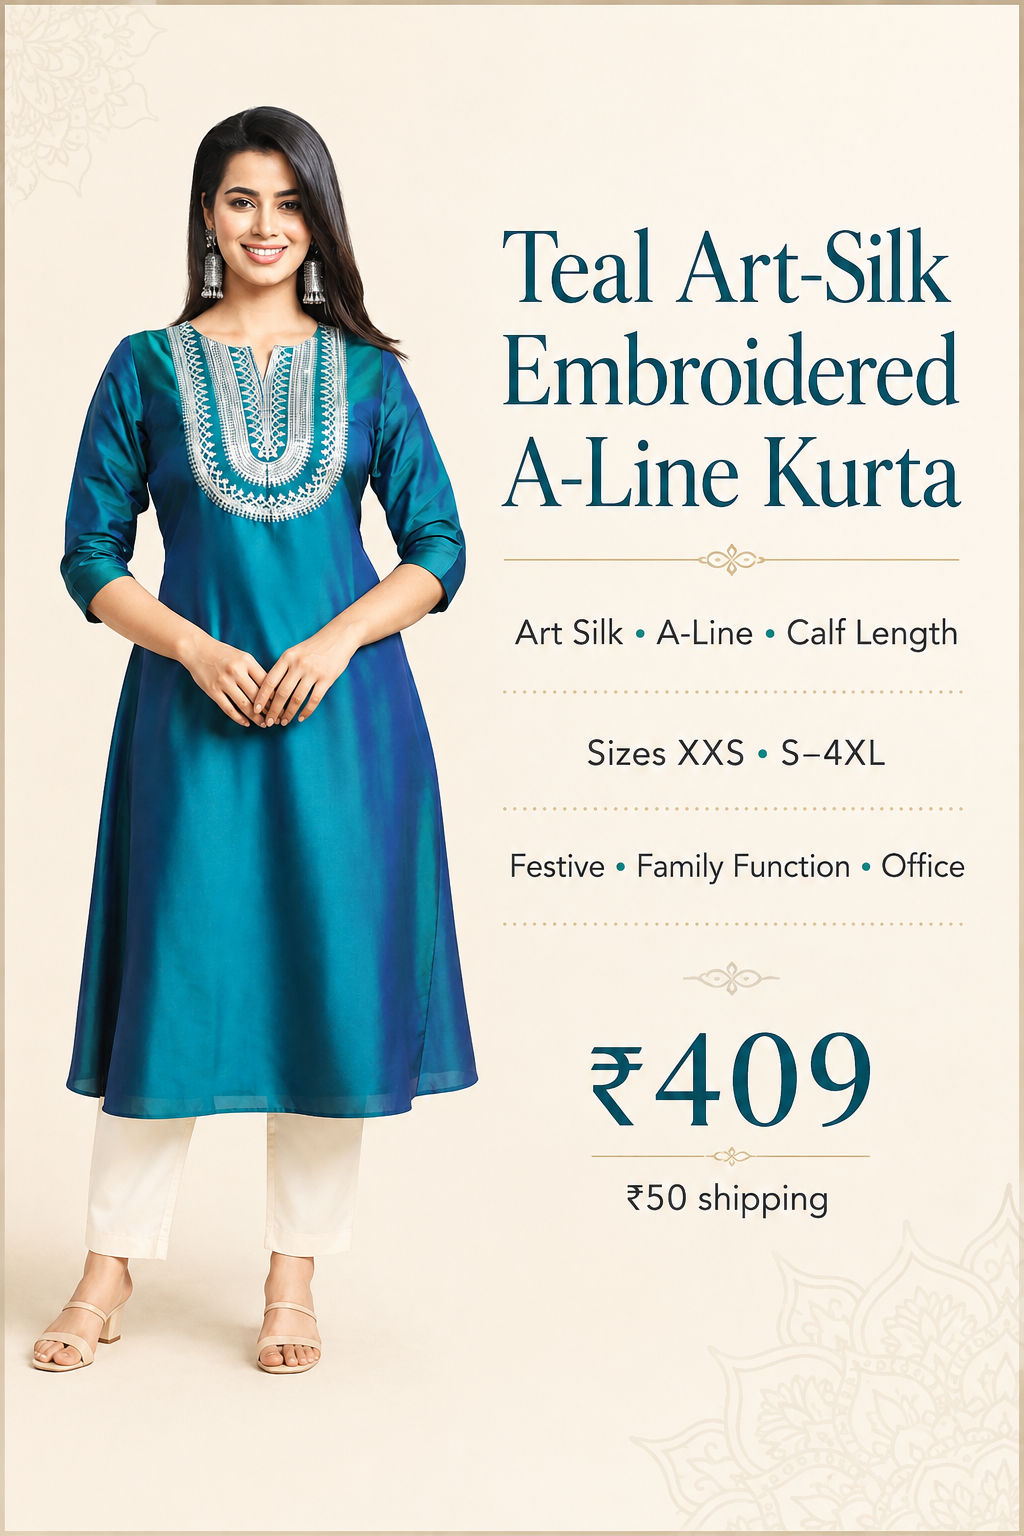
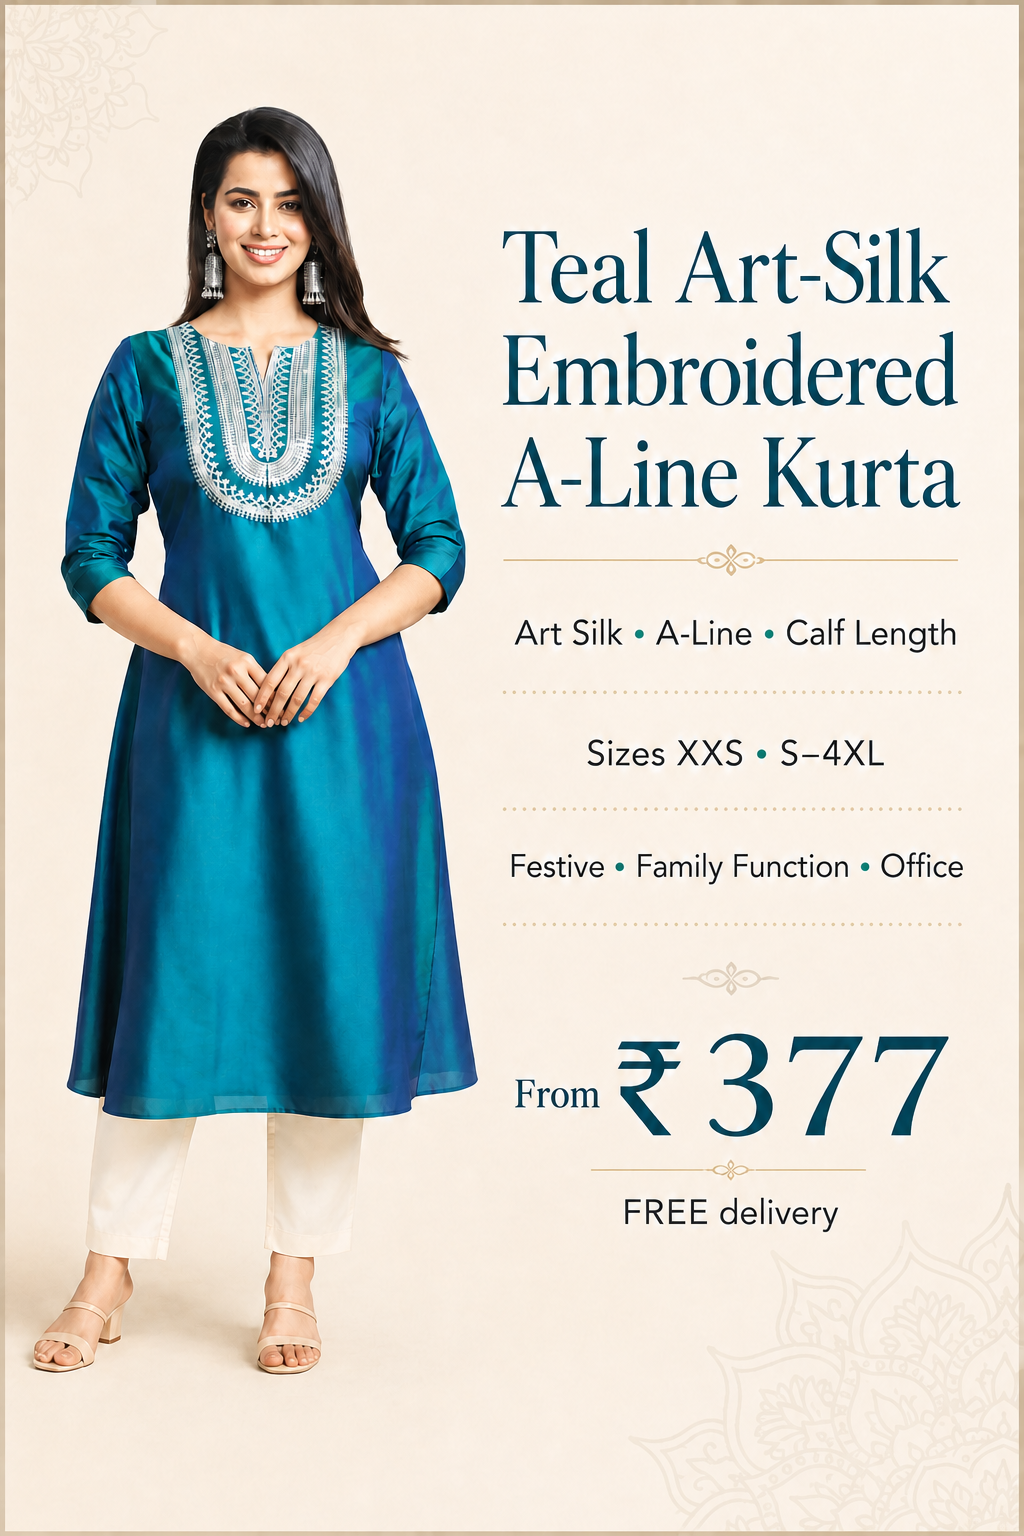
Verify and reprice Product 2

diff --git a/lib/products.ts b/lib/products.ts
@@ -4,7 +4,7 @@ const names=["catalogue-hero","front-model","occasion-lifestyle","three-quarter-
 const imageSet=(sku:string)=>names.map((name,index)=>`/images/${sku}/0${index+1}-${name}.png`);
 export const products:Product[]=[
 {id:"MSH-ETH-001",slug:"ajrakh-black-cotton-straight-kurti",name:"Ajrakh Black Cotton Straight Kurti",category:"Kurtis",collection:"Everyday Ethnic",occasion:"Daily wear / office",sellingPrice:469,images:imageSet("MSH-ETH-001"),sizes:["S","M","L","XL","XXL","XXXL","4XL","5XL","6XL"],variants:[{sku:"MSH-ETH-001-S",size:"S",colour:"Black with red ethnic motifs",price:469,available:true},{sku:"MSH-ETH-001-M",size:"M",colour:"Black with red ethnic motifs",price:478,available:true},{sku:"MSH-ETH-001-L",size:"L",colour:"Black with red ethnic motifs",price:487,available:true},{sku:"MSH-ETH-001-XL",size:"XL",colour:"Black with red ethnic motifs",price:502,available:true},{sku:"MSH-ETH-001-XXL",size:"XXL",colour:"Black with red ethnic motifs",price:502,available:true},{sku:"MSH-ETH-001-XXXL",size:"XXXL",colour:"Black with red ethnic motifs",price:502,available:true},{sku:"MSH-ETH-001-4XL",size:"4XL",colour:"Black with red ethnic motifs",price:502,available:true},{sku:"MSH-ETH-001-5XL",size:"5XL",colour:"Black with red ethnic motifs",price:502,available:true},{sku:"MSH-ETH-001-6XL",size:"6XL",colour:"Black with red ethnic motifs",price:502,available:true}],material:"Cotton",colour:"Black with red ethnic motifs",description:"A black cotton straight kurti with red Ajrakh-inspired motifs, a medallion yoke and decorative tassels for office and everyday wear.",featured:true,bestSeller:true},
-{id:"MSH-ETH-002",slug:"teal-art-silk-embroidered-a-line-kurta",name:"Teal Art-Silk Embroidered A-Line Kurta",category:"Kurtis",collection:"Festive Ethnic",occasion:"Festive wear",sellingPrice:609,images:imageSet("MSH-ETH-002"),sizes:["XXS","XS","S","M","L","XL","XXL","3XL","4XL"],material:"Art Silk",colour:"Teal",description:"A jewel-toned A-line kurta with embroidered neckline detailing for festive moments.",newArrival:true},
+{id:"MSH-ETH-002",slug:"teal-art-silk-embroidered-a-line-kurta",name:"Teal Art-Silk Embroidered A-Line Kurta",category:"Kurtis",collection:"Festive Ethnic",occasion:"Daily",sellingPrice:377,images:imageSet("MSH-ETH-002"),sizes:["XXS","S","M","L","XL","XXL","XXXL","4XL"],variants:[{sku:"MSH-ETH-002-XXS",size:"XXS",colour:"Blue-teal",price:377,available:true},{sku:"MSH-ETH-002-S",size:"S",colour:"Blue-teal",price:442,available:true},{sku:"MSH-ETH-002-M",size:"M",colour:"Blue-teal",price:415,available:true},{sku:"MSH-ETH-002-L",size:"L",colour:"Blue-teal",price:461,available:true},{sku:"MSH-ETH-002-XL",size:"XL",colour:"Blue-teal",price:461,available:true},{sku:"MSH-ETH-002-XXL",size:"XXL",colour:"Blue-teal",price:461,available:true},{sku:"MSH-ETH-002-XXXL",size:"XXXL",colour:"Blue-teal",price:461,available:true},{sku:"MSH-ETH-002-4XL",size:"4XL",colour:"Blue-teal",price:461,available:true}],material:"Art Silk",colour:"Blue-teal",description:"A blue-teal Art Silk A-line kurta with a white geometric U-shaped embroidered yoke and three-quarter sleeves.",newArrival:true},
 {id:"MSH-SET-003",slug:"peach-printed-kurta-palazzo-set",name:"Peach Printed Kurta Palazzo Set",category:"Kurta Sets",collection:"Everyday Sets",occasion:"Casual outing",sellingPrice:675,images:imageSet("MSH-SET-003"),sizes:["XXS","XS","S","M","L","XL","XXL","3XL","4XL","5XL"],material:"Rayon",colour:"Peach",description:"An easy rayon kurta-and-palazzo pairing with a soft peach print.",newArrival:true},
 {id:"MSH-SET-004",slug:"purple-aliya-cut-three-piece-set",name:"Purple Aliya-Cut Three-Piece Set",category:"Kurta Sets",collection:"Festive Sets",occasion:"Wedding guest / party",sellingPrice:658,images:imageSet("MSH-SET-004"),sizes:["S","M","L","XL","XXL","XXXL"],variants:[{sku:"MSH-SET-004-S",size:"S",colour:"Purple",price:658,available:true},{sku:"MSH-SET-004-M",size:"M",colour:"Purple",price:674,available:true},{sku:"MSH-SET-004-L",size:"L",colour:"Purple",price:674,available:true},{sku:"MSH-SET-004-XL",size:"XL",colour:"Purple",price:674,available:true},{sku:"MSH-SET-004-XXL",size:"XXL",colour:"Purple",price:674,available:true},{sku:"MSH-SET-004-XXXL",size:"XXXL",colour:"Purple",price:674,available:true}],material:"Rayon",colour:"Purple",description:"A purple printed rayon Aliya-cut kurta with coordinated pants and a sheer matching dupatta.",featured:true},
 {id:"MSH-GWN-005",slug:"purple-sequin-embroidered-anarkali",name:"Purple Sequin-Embroidered Anarkali",category:"Gowns",collection:"Wedding & Festive",occasion:"Evening party",sellingPrice:832,images:imageSet("MSH-GWN-005"),sizes:["S","M","L","XL","XXL","3XL","4XL","5XL"],material:"Cotton Blend",colour:"Purple",description:"A generous ankle-length Anarkali with delicate sequin accents.",bestSeller:true},

diff --git a/lib/internal-pricing.server.ts b/lib/internal-pricing.server.ts
@@ -5,7 +5,9 @@ export const sourceCostsBySku: Record<string, number> = {
   "MSH-ETH-001-S": 269, "MSH-ETH-001-M": 278, "MSH-ETH-001-L": 287,
   "MSH-ETH-001-XL": 302, "MSH-ETH-001-XXL": 302, "MSH-ETH-001-XXXL": 302,
   "MSH-ETH-001-4XL": 302, "MSH-ETH-001-5XL": 302, "MSH-ETH-001-6XL": 302,
-  "MSH-ETH-002": 409, "MSH-SET-003": 475,
+  "MSH-ETH-002-XXS": 177, "MSH-ETH-002-S": 242, "MSH-ETH-002-M": 215,
+  "MSH-ETH-002-L": 261, "MSH-ETH-002-XL": 261, "MSH-ETH-002-XXL": 261,
+  "MSH-ETH-002-XXXL": 261, "MSH-ETH-002-4XL": 261, "MSH-SET-003": 475,
   "MSH-SET-004-S": 458, "MSH-SET-004-M": 474, "MSH-SET-004-L": 474,
   "MSH-SET-004-XL": 474, "MSH-SET-004-XXL": 474, "MSH-SET-004-XXXL": 474,
   "MSH-GWN-005": 632, "MSH-GWN-006": 490,

diff --git a/docs/meesho-project-state.md b/docs/meesho-project-state.md
@@ -7,15 +7,15 @@ Audit commit: `f59492b47b3b97f77e19978e227ef1051689296b`
 ## What exists
 
 - A working Next.js/Vinext storefront with product listing, product detail, cart, COD checkout, Stripe checkout scaffolding, free-shipping logic, and Supabase commerce migrations.
-- Fourteen sellable original catalogue products plus ten approved, source-verified additions (Products 16–25) after the Product 15 safety correction. Products 1, 4, and 7 now have exact source backfills; the remaining eleven original sellable records require verification. Products 21–25 are deployed, production-QA verified, and Meta-feed ready.
+- Fourteen sellable original catalogue products plus ten approved, source-verified additions (Products 16–25) after the Product 15 safety correction. Products 1, 2, 4, and 7 now have exact source backfills; the remaining ten original sellable records require verification. Products 21–25 are deployed, production-QA verified, and Meta-feed ready.
 - Six separate local image assets for MSH-EXP-011 through MSH-EXP-015. The old combined catalogue boards are no longer referenced.
 - A Supabase schema whose public catalogue exposes only products with `status='active'`.
 - Asset and commerce tests, plus the new `npm run meesho:validate` commercial-data gate.
 
 ## Verification status
 
-- Products 1, 4, and 7 now have exact live Meesho source matches and complete commercial evidence. Product 1's corrected S–6XL flow is live and Meta-ready. Products 4 and 7 have corrected pricing, information cards, product pages, size-selected carts, and COD checkout locally verified; deployment and production QA remain pending.
-- Products 2–3, 5–6, and 8–14 exist in the storefront, but their original Meesho URLs and dated source evidence are not present in this repository. Candidate searches through Product 14 are preserved in `data/source-research.csv`; rejected candidates were not promoted. Under the new policy these records still require exact-source backfill.
+- Products 1, 2, 4, and 7 now have exact live Meesho source matches and complete commercial evidence. Product 1's corrected S–6XL flow is live and Meta-ready. Product 2 is corrected locally to exact XXS, S–XXXL and 4XL pricing at ₹377–₹461 with a FREE-delivery information card; live cart/COD QA remains pending. Products 4 and 7 have corrected pricing, information cards, product pages, size-selected carts, and COD checkout locally verified; deployment and production QA remain pending.
+- Products 3, 5–6, and 8–14 exist in the storefront, but their original Meesho URLs and dated source evidence are not present in this repository. Candidate searches through Product 14 are preserved in `data/source-research.csv`; rejected candidates were not promoted. Under the new policy these records still require exact-source backfill.
 - MSH-EXP-015 is confirmed by the supplied imagery and owner instruction as **Maroon Rayon Co-ord Set** (maroon kurta and wide-leg pants), not an Anarkali gown.
 - MSH-EXP-015 has no verified source URL, size-wise source price, sizes, seller, stock, rating, returns, or availability. It is therefore a draft and is excluded from the storefront.
 - A focused 2026-08-31 Meesho search found several maroon rayon kurta/pant listings, but none matched the supplied garment across silhouette, wide-leg bottom, V-neck treatment, sleeve details, included pieces, and colour. No candidate was accepted or copied into the canonical record.
@@ -57,7 +57,7 @@ The previous Products 16–20 visual concepts—Emerald Green Embroidered Kurta-
 
 1. Find Product 15’s exact source listing and verify it against all six supplied images.
 2. Keep Products 21–25 under daily source monitoring; their production and Meta-readiness gates are complete, but the feed has not been uploaded.
-3. Continue exact-source backfill for Products 2–3, 5–6, and 8–15; Products 1, 4, and 7 are verified.
+3. Deploy and live-QA Product 2, then continue exact-source backfill for Products 3, 5–6, and 8–15; Products 1, 2, 4, and 7 are verified.
 4. Review and apply the approved Product 1 and Products 16–20 Supabase catalogue synchronization without exposing source costs publicly.
 5. Keep `meesho:validate`, Meta-feed tests, lint, typecheck, tests, production build, and browser QA green.
 6. Apply the Supabase correction only after reviewing the migration against the linked project and current Supabase guidance.

diff --git a/data/catalogue-changelog.md b/data/catalogue-changelog.md
@@ -167,3 +167,5 @@
 - Deployed commit `f59492b` to production and verified the `dealstore-five.vercel.app` alias is READY. Live QA confirmed Products 21–25 on the homepage and correct category filters, six intact images on every PDP, no broken images or mobile overflow, Product 22 size M at ₹641 through cart, FREE delivery, selected COD checkout, and disabled online payment. No order was submitted and Vercel reported no runtime errors in the one-hour verification window.
 - Marked Products 21–25 `Live` and Meta `Ready` after production verification. The Meta feed is generated locally only; no upload or Meta catalogue mutation was performed.
 - Resumed exact-source backfill with Product 2. Rejected one unavailable Art-Silk listing that no longer exposes a verifiable garment/current commercial record and one live teal Art-Silk kurta whose green base, gold yoke and scattered motifs conflict with the canonical blue-teal garment and white geometric U-shaped yoke. Product 2 remains `Needs Verification`; no price, source or approval field was changed.
+- Found and accepted Product 2's exact live Meesho source (`7tw01f`) after matching the preserved model, blue-teal Art-Silk sheen, white geometric U-shaped embroidered yoke, notched round neckline, clean body, three-quarter sleeves and A-line silhouette. Captured active XXS, S–XXXL and 4XL size-wise prices, seller, 4.3 product rating, 7,859 reviews and 7-day returns; removed unsupported XS and normalized 3XL to source-listed XXXL.
+- Corrected Product 2 to exact source-plus-₹200 pricing (₹377–₹461), replaced the unsafe ₹409/₹50-shipping information card with `From ₹377` and `FREE delivery`, added variant-aware storefront pricing, and promoted the canonical record to `Approved`. Deployment, live cart/COD QA and Meta readiness remain gated.
